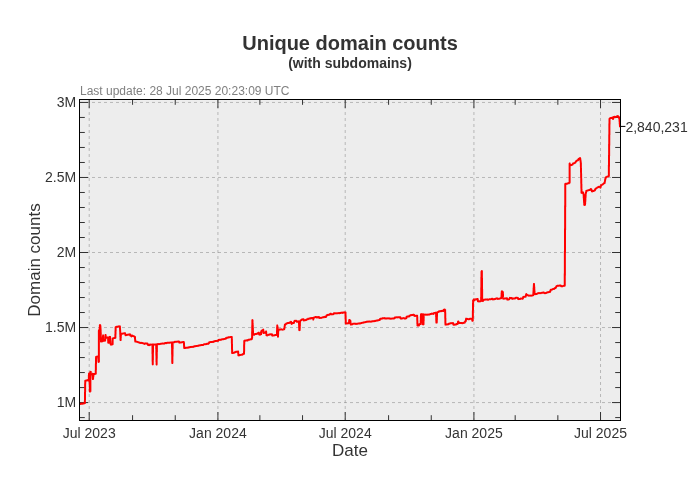
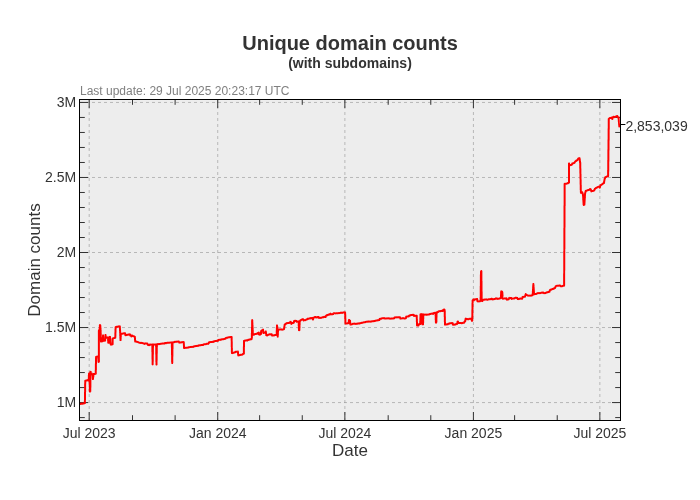
Update pages

diff --git a/README.md b/README.md
@@ -3,23 +3,23 @@ A blocklist file for blocking ads, trackers and malware domains.
 
[1 lines of base64/hex data omitted]
 
-- Unique domains: 2,840,231
-- Without subdomains: 2,158,535
-- Last update: 28 Jul 2025 20:23:09 UTC
-- Version: 2025.07.28.01
+- Unique domains: 2,853,039
+- Without subdomains: 2,164,846
+- Last update: 29 Jul 2025 20:23:17 UTC
+- Version: 2025.07.29.01
 
 
 ### Downloads:
 
 | Format             | Domain count      | Download Link |
 |:------------------ | -----------------:|:-------------:|
-| *Adblock Plus*     | 2,158,535 | [Download](https://dl.cenk.app/bad-hosts/bad-hosts-abp) |
-| *Wildcard domains* | 2,158,535 | [Download](https://dl.cenk.app/bad-hosts/bad-hosts-wildcard) |
-| *dnsmasq*          | 2,158,535 | [Download](https://dl.cenk.app/bad-hosts/bad-hosts-dnsmasq) |
-| *Unbound*          | 2,158,535 | [Download](https://dl.cenk.app/bad-hosts/bad-hosts-unbound) |
-| *hosts*            | 2,840,231 | [Download](https://dl.cenk.app/bad-hosts/hosts) |
-| *hosts (ipv6)*     | 2,840,231 | [Download](https://dl.cenk.app/bad-hosts/hosts-ipv6) |
-| *Plain domains*    | 2,840,231 | [Download](https://dl.cenk.app/bad-hosts/bad-hosts-domains) |
+| *Adblock Plus*     | 2,164,846 | [Download](https://dl.cenk.app/bad-hosts/bad-hosts-abp) |
+| *Wildcard domains* | 2,164,846 | [Download](https://dl.cenk.app/bad-hosts/bad-hosts-wildcard) |
+| *dnsmasq*          | 2,164,846 | [Download](https://dl.cenk.app/bad-hosts/bad-hosts-dnsmasq) |
+| *Unbound*          | 2,164,846 | [Download](https://dl.cenk.app/bad-hosts/bad-hosts-unbound) |
+| *hosts*            | 2,853,039 | [Download](https://dl.cenk.app/bad-hosts/hosts) |
+| *hosts (ipv6)*     | 2,853,039 | [Download](https://dl.cenk.app/bad-hosts/hosts-ipv6) |
+| *Plain domains*    | 2,853,039 | [Download](https://dl.cenk.app/bad-hosts/bad-hosts-domains) |
 
 ### Domain count history
 #### With subdomains
